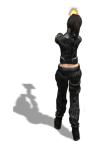
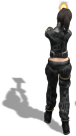
Major commit. Changed image files and properties in classes in classes.js. Added a BodyCount and LivesLeft counter to page. Fixed alerts so that game win or game end results in user needing to reload page to play. Etc.

diff --git a/src/js/classes.js b/src/js/classes.js
@@ -2,6 +2,7 @@ import $ from 'jquery';
 
 let player, gun, game;
 let zombieArray = [];
+let bodyCount = 0;
 
 class Game {
 	constructor(){
@@ -45,6 +46,11 @@ class Game {
 				$(".board").append(`<div class="zombie" id="${zombie.id}">
 					<img src=${zombie.image}>
  				</div>`);
+ 				for (var y = 0; y<zombieArray.length; y++){
+ 					if(Math.abs(zombie.position.x - zombieArray[y].position.x) <=65){
+ 						zombie.position.x+= 65;
+ 					};	
+ 				}; 				
  				document.getElementById(zombie.id).style.left = zombie.position.x +"px";
 			});
 		};
@@ -70,13 +76,16 @@ class Game {
 	};
 
 	youWin(){
-		if(this.level === 100) {
-			alert("You win!");
+		if(this.level === 9) {
+			function alerter(){
+				alert("You win!");
+				$(".zombie").remove();
+				$("#player").remove();
+				zombieArray = [];
+				$(".board").append(`<h1>Refresh page to play again!</h1>`);
+			};
+			window.setTimeout(alerter, 200);
 		};
-	};
-
-	gameOver(){
-			alert("You lose");
 	};
 
 	levelUp(){
@@ -111,13 +120,18 @@ class Player {
 		gun.fire();
 		$("#player").html(`<img src=${this.attackImage}>`);
 		zombieArray.forEach((zombie) =>{
-			let xdifference = (this.position.x +37) - zombie.position.x;
+			let xdifference = (this.position.x +30) - zombie.position.x;
 			let ydifference = (this.position.y -105) - zombie.position.y;
 			let xdifferenceAbs = Math.abs(xdifference);
 			if (xdifferenceAbs <= 20){
 				zombie.grunt();
+				$("#"+zombie.id).html(`<img src='${zombie.shotImage}'>`);				
 				zombie.hitpoints -= gun.power;
 				zombie.checkVitals();		
+				function imageZombieReset(){
+					$("#"+zombie.id).html(`<img src='${zombie.image}'>`);
+				};
+				window.setTimeout(imageZombieReset, 500);
 			};
 		});
 		function imageReset() {
@@ -143,12 +157,6 @@ class Player {
 		audio.play();
 	}
 
-	// checkVitals(){
-	// 	if(player.hitpoints <= 0){
-	// 		game.gameOver();
-	// 	};
-	// };
-
 	scream() {
 		var audio = new Audio(this.deathSound);
 		audio.play();
@@ -161,11 +169,12 @@ class Zombie{
 		this.alive = true;
 		this.index = '';
 		this.hitpoints = 3;
-		this.moveSpeed = (Math.random()*20);
-		this.image = "./images/zombieWalk.gif";
+		this.moveSpeedX = 10 + (Math.random()*10);
+		this.moveSpeedY = 20 + (Math.random()*25);
+		this.image = "./images/zombieWalk.png";
 		this.shotImage = "./images/zombieShot.png";
-		this.attackImage = "./images/zombieAttack.gif";
-		this.deathImage = "./images/zombieDeath.gif";
+		this.attackImage = "./images/zombieAttack.png";
+		this.deathImage = "./images/zombieDeath.png";
 		this.sound = "./sounds/Zombie_Grunt.mp3";
 		this.deathSound = "./sounds/Zombie_Death_Scream.mp3";
 		this.attackSound = "./sounds/Zombie_Attack.mp3";
@@ -183,16 +192,16 @@ class Zombie{
 		let ydifferenceAbs = Math.abs(ydifference);
 
 		if (xdifference > 20) {
-			this.position.x += this.moveSpeed;
-			$("#"+this.id).animate({"left": `+=${this.moveSpeed}px`}, "fast");
+			this.position.x += this.moveSpeedX;
+			$("#"+this.id).animate({"left": `+=${this.moveSpeedX}px`}, "fast");
 		} else if (xdifference < -20) {
-			this.position.x -= this.moveSpeed;
-			$("#"+this.id).animate({"left": `-=${this.moveSpeed}px`}, "fast");
+			this.position.x -= this.moveSpeedX;
+			$("#"+this.id).animate({"left": `-=${this.moveSpeedX}px`}, "fast");
 		};
 
 		if (ydifference > 20) {
-			this.position.y += this.moveSpeed;;
-			$("#"+this.id).animate({"top": `+=${this.moveSpeed}px`}, "fast");
+			this.position.y += this.moveSpeedY;;
+			$("#"+this.id).animate({"top": `+=${this.moveSpeedY}px`}, "fast");
 		} //else stop where you are.
 	};
 
@@ -205,6 +214,9 @@ class Zombie{
 			this.alive = false;
 			this.scream();
 			$("#"+`${this.id}`).remove();
+			bodyCount +=1;
+		$(".bodyCounter").remove();
+		$(".board").append(`<h3 class="bodyCounter">Body Count: ${bodyCount} </br>   Lives Left: ${player.hitpoints}</h3>`);					
 			zombieArray.splice(this.index, 1);
 			for(var x=0; x<zombieArray.length; x++){
 				zombieArray[x].index = x;
@@ -220,12 +232,34 @@ class Zombie{
 	}
 
 	attack(){
-		player.grunt();
-		player.hitpoints -= 1;
 		var audio = new Audio(this.attackSound);
 		audio.play();
+		$("#"+this.id).html(`<img src='${this.attackImage}'>`);
+		player.grunt();
+		$("#player").html(`<img src='${player.biteImage}'>`);				
+		player.hitpoints -=1;
+		$(".bodyCounter").remove();
+		$(".board").append(`<h3 class="bodyCounter">Body Count: ${bodyCount} </br>   Lives Left: ${player.hitpoints}</h3>`);					
+		if(player.hitpoints === 0){
+			player.scream();
+			function alerter(){
+				alert("You Lose!");
+				$(".zombie").remove();
+				$("#player").remove();
+				zombieArray = [];
+				$(".board").append(`<h1>Refresh page to play again!</h1>`);
+			};
+			window.setTimeout(alerter, 200);
+		};
+		function imagePlayerReset(){
+			$("#player").html(`<img src='${player.image}'>`);
+		};
+		window.setTimeout(imagePlayerReset, 300);
+		function imageReset(){
+			$("#"+this.id).html(`<img src='${this.image}'>`)
+		};
+		window.setTimeout(imageReset.bind(this), 300);
 	};
-
 };
 
 class Gun{
@@ -240,4 +274,4 @@ class Gun{
 	};
 };
 
-export { Game, player, Player, zombieArray, Zombie, gun, Gun };
+export { Game, bodyCount, player, Player, zombieArray, Zombie, gun, Gun };

diff --git a/src/js/main.js b/src/js/main.js
@@ -1,7 +1,14 @@
 import $ from "jquery";
-import { Game, player, Player, zombieArray, Zombie, gun, Gun } from './classes';
+import { Game, bodyCount, player, Player, zombieArray, Zombie, gun, Gun } from './classes';
 
+$(".board").append(`<h1 class="h1">Welcome to Zombie Defense! Can you stay alive until Level 99?</h1>
+					<h2 class="h2">Controls: A - move left  D - move right  Space - shoot</h2>
+					<h3 class="h3">Click to begin!</h3>`);
 function startGame(){
+	$(".h1").remove();
+	$(".h2").remove();
+	$(".h3").remove();
+	$(".board").append(`<h3 class="bodyCounter">Body Count: ${bodyCount} </br>   Lives Left: 3</h3>`);
 	let game = new Game();
 	game.createBoard();
 	console.log(game.createBoard);
@@ -11,13 +18,17 @@ function startGame(){
 	game.createZombies();
 	window.addEventListener('keydown', function(event){
 		event.preventDefault();
-		if (event.code==="Space"){
-			player.attack();
-			game.levelUp();
-		} else if (event.code==="KeyA"){
+		if (event.code==="KeyA"){
 			player.moveLeft();
 		} else if (event.code==="KeyD"){
 			player.moveRight();
+		};
+	});
+	window.addEventListener('keyup', function(event){
+		event.preventDefault();
+		if (event.code==="Space"){
+			player.attack();
+			game.levelUp();
 		};
 	});
 	window.setInterval(game.zombieMovement, 500);
@@ -25,4 +36,7 @@ function startGame(){
 
 //Test
 
-startGame();
+window.addEventListener('click', function(event){
+	event.preventDefault();
+	startGame();
+});

diff --git a/src/sass/main.scss b/src/sass/main.scss
@@ -25,6 +25,12 @@
 	box-sizing: border-box;
 }
 
+.bodyCounter{
+	position: absolute;
+	bottom: 0px;
+	left: 0px;
+}
+
 #player{
 	position: absolute;
     top: 450px;
